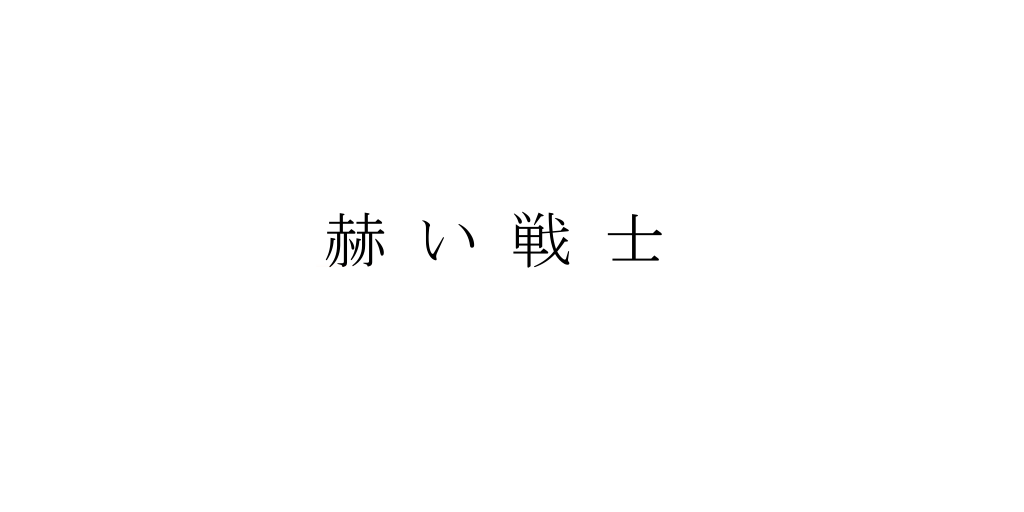
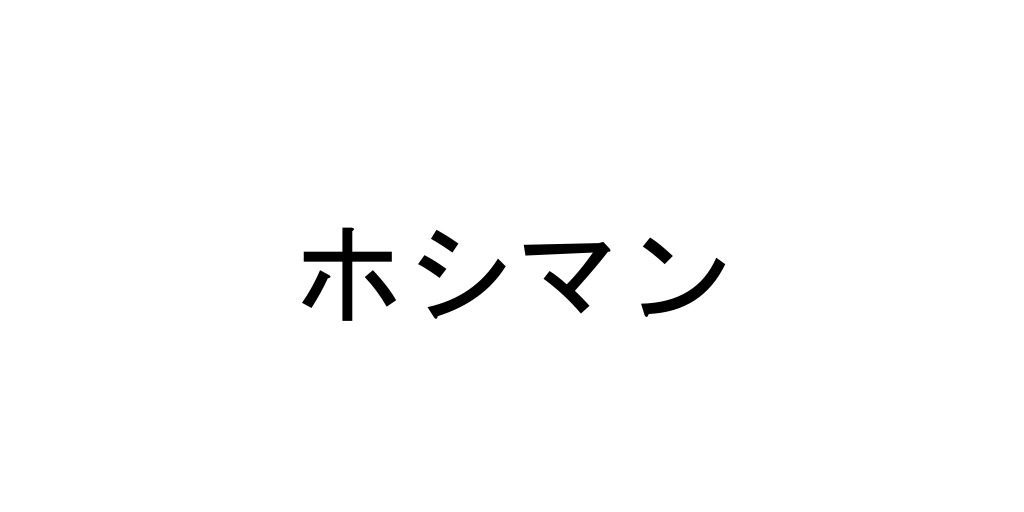
.

diff --git a/starman/starman/SeqTitle.cpp b/starman/starman/SeqTitle.cpp
@@ -9,6 +9,8 @@ SeqTitle::SeqTitle()
 {
     m_sprite1 = new Sprite("res\\image\\title01.png");
     m_sprite2 = new Sprite("res\\image\\title02.png");
+    m_sprite3 = new Sprite("res\\image\\title03.png");
+    m_sprite3->SetFill(true);
     m_spriteCursor = new Sprite("res\\image\\cursor.png");
 }
 
@@ -16,6 +18,7 @@ SeqTitle::~SeqTitle()
 {
     SAFE_DELETE(m_sprite1);
     SAFE_DELETE(m_sprite2);
+    SAFE_DELETE(m_sprite3);
     SAFE_DELETE(m_spriteCursor);
 }
 
@@ -49,7 +52,15 @@ void SeqTitle::Update(eSequence* sequence)
 
 void SeqTitle::Render()
 {
-    D3DXVECTOR3 pos { 0.0f, 0.0f, 0.0f };
-    m_sprite2->Render(pos);
-    m_spriteCursor->Render(pos);
+    D3DXVECTOR3 pos4 { 0.0f, 0.0f, 0.0f };
+    m_sprite3->Render(pos4);
+
+    D3DXVECTOR3 pos1 { 0.0f, 0.0f, 0.0f };
+    m_sprite1->Render(pos1);
+
+    D3DXVECTOR3 pos2 { 800.0f, 200.0f, 0.0f };
+    m_sprite2->Render(pos2);
+
+    D3DXVECTOR3 pos3 { 900.0f, 220.0f, 0.0f };
+    m_spriteCursor->Render(pos3);
 }

diff --git a/starman/starman/Sprite.cpp b/starman/starman/Sprite.cpp
@@ -42,13 +42,30 @@ void Sprite::Render(const D3DXVECTOR3& pos, const BYTE transparency)
         static_cast<LONG>(m_width),
         static_cast<LONG>(m_height) };
     D3DXVECTOR3 center { 0, 0, 0 };
-    m_D3DSprite->Draw(
-        m_D3DTexture,
-        &rect,
-        &center,
-        &pos,
-        D3DCOLOR_ARGB(transparency, 255, 255, 255));
+    if (m_isFill)
+    {
+        m_D3DSprite->Draw(
+            m_D3DTexture,
+            nullptr,
+            &center,
+            &pos,
+            D3DCOLOR_ARGB(transparency, 255, 255, 255));
+    }
+    else
+    {
+        m_D3DSprite->Draw(
+            m_D3DTexture,
+            &rect,
+            &center,
+            &pos,
+            D3DCOLOR_ARGB(transparency, 255, 255, 255));
+    }
     m_D3DSprite->End();
+}
+
+void Sprite::SetFill(const bool isFill)
+{
+    m_isFill = isFill;
 }
 
 

diff --git a/starman/starman/Sprite.h b/starman/starman/Sprite.h
@@ -10,11 +10,13 @@ public:
     Sprite(std::string filename);
     // ??? pos.x shows z-order. That should be 0.0f ~ 1.0f.
     void Render(const D3DXVECTOR3& pos, const BYTE transparency = 255);
+    void SetFill(const bool isFill);
 private:
     LPD3DXSPRITE m_D3DSprite;
     LPDIRECT3DTEXTURE9 m_D3DTexture;
 
     UINT m_width { };
     UINT m_height { };
+    bool m_isFill { false };
 };
 

diff --git a/starman/starman/SeqTitle.h b/starman/starman/SeqTitle.h
@@ -13,6 +13,7 @@ public:
 private:
     Sprite* m_sprite1 { nullptr };
     Sprite* m_sprite2 { nullptr };
+    Sprite* m_sprite3 { nullptr };
     Sprite* m_spriteCursor { nullptr };
 };
 
